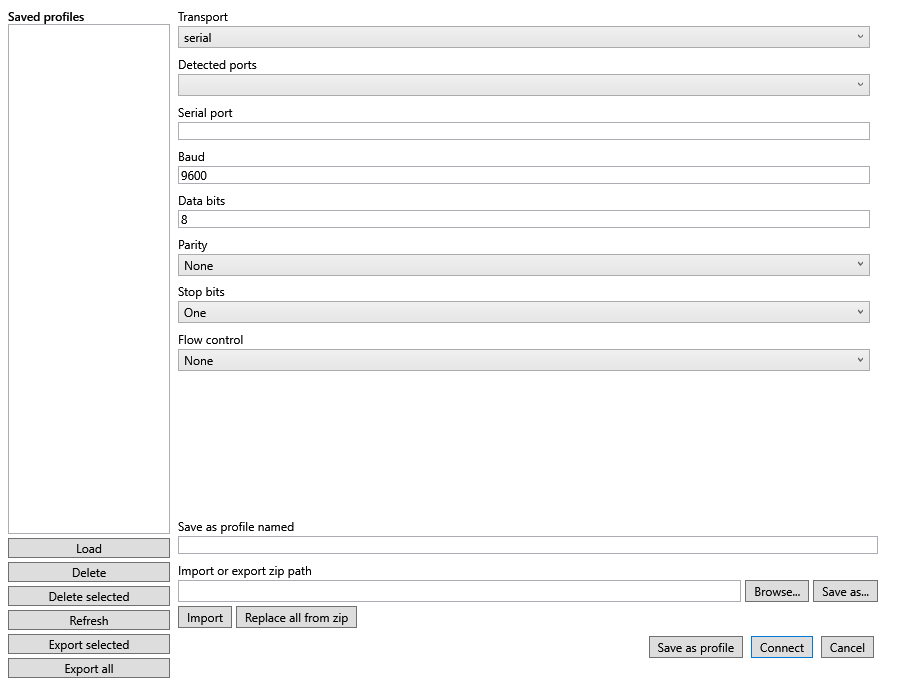
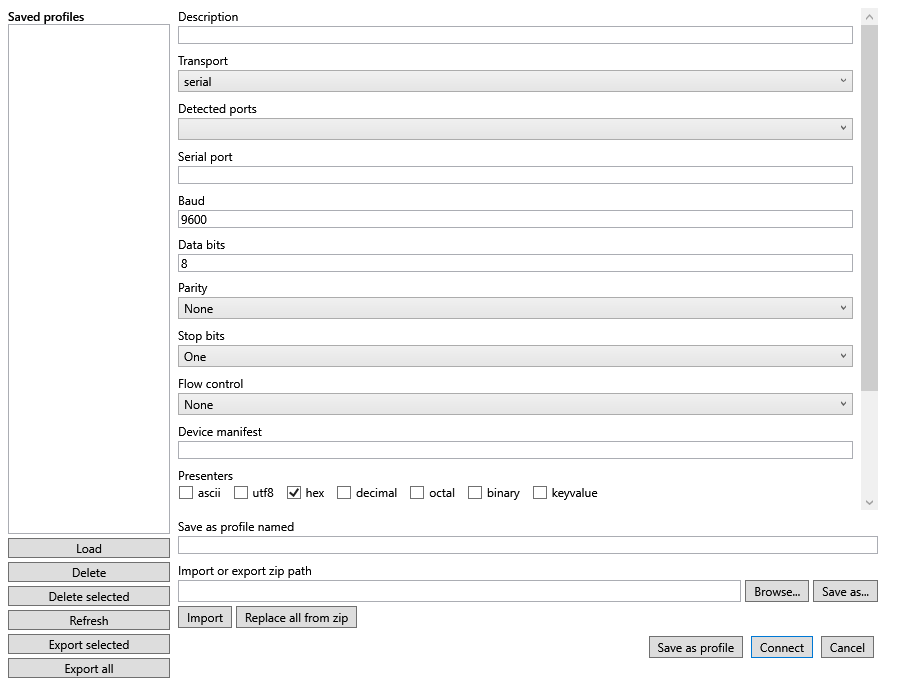
Finish the WPF connection editor fields with a test, screenshots, docs and tracking

Changed region(s): [[0.1867, 0.0, 0.9956, 0.63], [0.28, 0.69, 0.6533, 0.72], [0.1867, 0.66, 0.2489, 0.72]]

diff --git a/src/Applications/DevTerm/OoBDev.DevTerm.Wpf/ConnectionEditorWindow.xaml b/src/Applications/DevTerm/OoBDev.DevTerm.Wpf/ConnectionEditorWindow.xaml
@@ -53,6 +53,8 @@
             </StackPanel>
             <ScrollViewer VerticalScrollBarVisibility="Auto">
             <StackPanel Margin="0,0,8,0">
+                <TextBlock Text="Description" />
+                <TextBox Text="{Binding Description, UpdateSourceTrigger=PropertyChanged}" Margin="0,2,0,8" />
                 <TextBlock Text="Transport" />
                 <ComboBox ItemsSource="{Binding TransportOptions}" SelectedItem="{Binding Transport}" Margin="0,2,0,8" />
                 <StackPanel Visibility="{Binding IsSerialLikeTransport, Converter={StaticResource Visible}}">
@@ -116,17 +118,24 @@
                     <TextBlock Text="User name" />
                     <TextBox Text="{Binding Username, UpdateSourceTrigger=PropertyChanged}" Margin="0,2,0,8" />
                 </StackPanel>
-                <TextBlock Text="Presenters" FontWeight="SemiBold" Margin="0,8,0,2" />
+                <TextBlock Text="Device manifest" />
+                <TextBox Text="{Binding ManifestName, UpdateSourceTrigger=PropertyChanged}" Margin="0,2,0,8" />
+                <TextBlock Text="Presenters" />
                 <ItemsControl ItemsSource="{Binding PresenterChoices}" Margin="0,0,0,8">
+                    <ItemsControl.ItemsPanel>
+                        <ItemsPanelTemplate><WrapPanel /></ItemsPanelTemplate>
+                    </ItemsControl.ItemsPanel>
                     <ItemsControl.ItemTemplate>
                         <DataTemplate>
-                            <CheckBox Content="{Binding Name}" IsChecked="{Binding IsSelected}" Margin="0,1" />
+                            <CheckBox Content="{Binding Name}" IsChecked="{Binding IsSelected}" Margin="0,2,12,2" />
                         </DataTemplate>
                     </ItemsControl.ItemTemplate>
                 </ItemsControl>
                 <StackPanel Visibility="{Binding IsScpiPresenterSelected, Converter={StaticResource Visible}}">
                     <TextBlock Text="SCPI profile" />
                     <ComboBox ItemsSource="{Binding ScpiProfileOptions}" Text="{Binding ScpiProfile, UpdateSourceTrigger=PropertyChanged}" IsEditable="True" Margin="0,2,0,8" />
+                    <TextBlock Text="SCPI auto-detect timeout (ms)" />
+                    <TextBox Text="{Binding ScpiAutoDetectTimeoutMs, UpdateSourceTrigger=PropertyChanged}" Margin="0,2,0,8" />
                 </StackPanel>
                 <TextBlock Text="Send format (parser)" />
                 <ComboBox ItemsSource="{Binding PresenterOptions}" SelectedItem="{Binding Parser}" Margin="0,2,0,8" />

diff --git a/src/Applications/DevTerm/OoBDev.DevTerm.Wpf.Tests/ConnectionEditorWindowTests.cs b/src/Applications/DevTerm/OoBDev.DevTerm.Wpf.Tests/ConnectionEditorWindowTests.cs
@@ -1,4 +1,9 @@
 using System;
+using System.Collections.Generic;
+using System.Linq;
+using System.Windows;
+using System.Windows.Controls;
+using System.Windows.Media;
 using OoBDev.System.IO;
 using System.Diagnostics;
 using System.Threading;
@@ -55,6 +60,51 @@ public sealed class ConnectionEditorWindowTests
         Assert.IsTrue(listed);
     }
 
+    [TestMethod]
+    public void Window_ShowsOnePresenterCheckBoxPerPresenter_AndTheSendFormatAndLineEndingChoices()
+    {
+        // Stage
+        var checkBoxes = 0;
+        var combos = 0;
+        var expected = 0;
+        RunOnSta(() =>
+        {
+            using var editor = new ConnectionEditorViewModel(new ConnectionProfileStore(_dir), new CliOptions { Transport = "tcp" });
+            expected = editor.PresenterChoices.Count;
+            var window = new ConnectionEditorWindow(editor);
+
+            // Test
+            WpfScreenshot.ShowOffScreen(window, 900, 700);
+            Dispatcher.CurrentDispatcher.Invoke(() => { }, DispatcherPriority.Background);
+            window.UpdateLayout();
+            checkBoxes = Descendants<CheckBox>(window).Count(c => editor.PresenterChoices.Any(p => ReferenceEquals(c.DataContext, p)));
+            combos = Descendants<ComboBox>(window).Count(c => ReferenceEquals(c.ItemsSource, editor.PresenterOptions) || ReferenceEquals(c.ItemsSource, editor.LineEndingOptions));
+            window.Close();
+        });
+
+        // Assert
+        Assert.IsTrue(expected > 0);
+        Assert.AreEqual(expected, checkBoxes);
+        Assert.AreEqual(2, combos);
+    }
+
+    private static IEnumerable<T> Descendants<T>(DependencyObject root)
+        where T : DependencyObject
+    {
+        for (var i = 0; i < VisualTreeHelper.GetChildrenCount(root); i++)
+        {
+            var child = VisualTreeHelper.GetChild(root, i);
+            if (child is T match)
+            {
+                yield return match;
+            }
+
+            foreach (var nested in Descendants<T>(child))
+            {
+                yield return nested;
+            }
+        }
+    }
     private static void RunOnSta(Action action)
     {
         Exception? failure = null;

diff --git a/BACKLOG.md b/BACKLOG.md
@@ -1,4 +1,4 @@
-# BACKLOG - OoBDev (dotex) Framework
+# BACKLOG - OoBDev (dotex) Framework
 
 > **Full work list.** Every open, valid item lives here; [TODO.md](TODO.md) holds only what is being worked on now. Finished work lives in the change history: [docs/changes/](docs/changes/README.md).
 > **Owner questions:** [OPEN-QUESTIONS.md](./OPEN-QUESTIONS.md) · **New to this project?** Read [CLAUDE.md](./CLAUDE.md) first.
@@ -11,6 +11,8 @@ GitHub is no longer the primary repository (local bare repo `origin`), so nothin
 ## 1. DevTerm (merge of dev-term, 100% parity)
 
 Owner: all protocols and features of dev-term must exist here. Done means what dev-term has today; its own future plans are in section 8. Status, slices and leftovers: [status.md](docs/design/DevTermParity/status.md); matrix: [README](docs/design/DevTermParity/README.md); restructure steps 0 to 6 are done.
+
+- [ ] WPF form renderer: the WPF Connection Editor is hand-written XAML (fields complete, 2026-11-12); carry over `DevTerm.Wpf.FormRenderer` so it draws the generated `FormDefinition` like dev-term ([spec](docs/applications/devterm/specs/connection-editor.md)).
 
 - [ ] **DevTerm docs into living documents** (owner, 2026-10-30): reusable designs, proposals, features and rejected protocols are folded into `docs/design/` and `docs/protocols/` (2026-11-04, see [the map](docs/migration/README.md#devterm-ui-shells-and-plugins)); device copies deleted 2026-11-04; left: the imported `source` and `bugs` history (the `changes` history is merged into the daily files, 2026-11-04; cleanup plan after every migration), then delete the map.
 - The docs Unit tests `PlantUml_Blocks_AreWellFormed` and `Links_Relative_Resolve` fail on the imported DevTerm history; the planned documentation cleanup after all migrations fixes them (owner, 2026-10-30).

diff --git a/docs/applications/devterm/user-guide/device-control-panels.md b/docs/applications/devterm/user-guide/device-control-panels.md
@@ -1,4 +1,4 @@
-# Controlling a device from a panel, not just typed commands
+# Controlling a device from a panel, not just typed commands
 
 Some devices get a real control panel instead of typing raw bytes — buttons, sliders, toggles, and
 fields generated from that device's own declared layout. Once connected (see
@@ -8,10 +8,10 @@ what's available. Full field-by-field/action-by-action reference:
 
 ## Where the Device menu entries come from
 
-Each panel entry in the **Device** menu is contributed by a plugin (K8055, Busylight, Radex One, Zoom H4n, DE-5000,
+Each panel entry in the **Device** menu is compiled in (registered by `AddDevTermDevicePanels()`; K8055, Busylight, Radex One, Zoom H4n, DE-5000,
 NMEA 0183, Z-Wave controllers, SCPI instruments), not built into dev-term. A plugin's entry is enabled only while connected to a transport and
 device it supports (the K8055 needs its USB HID board, for example); otherwise it stays greyed out. **Device > Plugins...**
-(or `--listplugins true`) lists what was loaded, so a missing entry usually means the plugin folder was not found.
+(or `--listplugins true`) lists only external plugin folders (`plugins/<name>/plugin.json`), not these panels, so "No plugins found" is normal. A greyed entry means the connection does not match the device.
 The web host offers the same panels through `Web:Panel` (a contribution id such as `k8055`).
 
 ## Finding your way around a panel

diff --git a/docs/applications/devterm/specs/connection-editor.md b/docs/applications/devterm/specs/connection-editor.md
@@ -1,4 +1,4 @@
-# Connection Editor
+# Connection Editor
 
 ## Purpose
 
@@ -11,7 +11,7 @@ both front ends:
 - **WPF**: `DevTerm.Wpf.DeviceProfilesWindow` — the profile list and action rows bound via XAML
   `{Binding ...}`/`Command="{Binding ...}"`, no business logic in code-behind.
 
-**The connection fields are generated, not hand-built** (since 2026-09-25): the view model's own
+**Status in this repository (2026-11-12):** the generic WPF form renderer (`DevTerm.Wpf.FormRenderer`) was not carried over by the migration, so the WPF window draws the same fields from hand-written XAML bound to the same view-model properties (Description, the transport fields, Device manifest, Presenters, SCPI profile and auto-detect timeout, Send format, Line ending, ASCII max line length); `ConnectionEditorWindowTests` checks the presenter and choice controls. Moving it back onto the generated form is the rest of the WPF form-renderer slice.`n`n**The connection fields are generated, not hand-built** (since 2026-09-25, in dev-term): the view model's own
 properties carry `[Category]`/`[DisplayName]`/`[FormField]` annotations (plus `[FormSection]` on the
 class for each transport group's visibility), `FormDefinitionGenerator` turns them into
 `ConnectionEditorViewModel.FormDefinition` — an ordinary `UiDefinition` — and each front end's

diff --git a/docs/changes/2026-11-12.md b/docs/changes/2026-11-12.md
@@ -243,3 +243,7 @@ Work finished on 2026-11-12, one section per task. Index: [README](README.md).
 ## Owner decisions: events edge, Z-Wave replies, Basic Stamp and MIDI panel
 
 - CloudEvents edge goes in a new OoBDev.EventSourcing.Web (Extensions). Z-Wave Enumerate and Describe read replies through a shared per-session node table. Basic Stamp covers the BS2 family from a third-party reference project (pbasic or stampy, licence check first). The MIDI panel goes in a Panels folder in OoBDev.Midi.
+
+## WPF Connection Editor: presenter, SCPI and send-format fields
+
+- The WPF window showed only the transport fields; the presenters, SCPI profile and timeout, device manifest, description, send format, line ending and ASCII line length were missing (the TUI had them). Added to `ConnectionEditorWindow.xaml` bound to the shared view model, with a window test, regenerated screenshots and corrected user-guide text (device panels are compiled in, not plugins). WPF tests: 13 connection-editor tests pass.

diff --git a/docs/applications/devterm/user-guide/connecting.md b/docs/applications/devterm/user-guide/connecting.md
@@ -1,4 +1,4 @@
-# Connecting to a device
+# Connecting to a device
 
 How you get from "just started dev-term" to "connected, ready to send" — three ways in: command-line
 flags (CLI), or the shared Connection Editor screen (TUI/WPF), which also opens automatically at
@@ -194,7 +194,7 @@ heading for its group (Serial, TCP, USB Device, Loopback), followed by the Prese
 fields are the same in both front ends because both draw them from one definition (see
 [the Connection Editor spec](../specs/connection-editor.md)); a value that isn't what the field
 expects (a Baud rate that isn't a whole number, say) is flagged right under or beside the field as
-you type.
+you type. In WPF the Presentation fields are Device manifest, Presenters (one checkbox each), SCPI profile and timeout (shown only while `scpi` is checked), Send format, Line ending and ASCII max line length, below the transport fields.
 
 **Serial** (TUI, then WPF):
 

diff --git a/docs/changes/README.md b/docs/changes/README.md
@@ -65,7 +65,7 @@ Each task section should include:
 
 ## By day
 
-- [2026-11-12](2026-11-12.md): 50 task(s)
+- [2026-11-12](2026-11-12.md): 51 task(s)
 - [2026-11-11](2026-11-11.md): 124 task(s)
 - [2026-11-10](2026-11-10.md): 49 task(s)
 - [2026-11-09](2026-11-09.md): 24 task(s)
